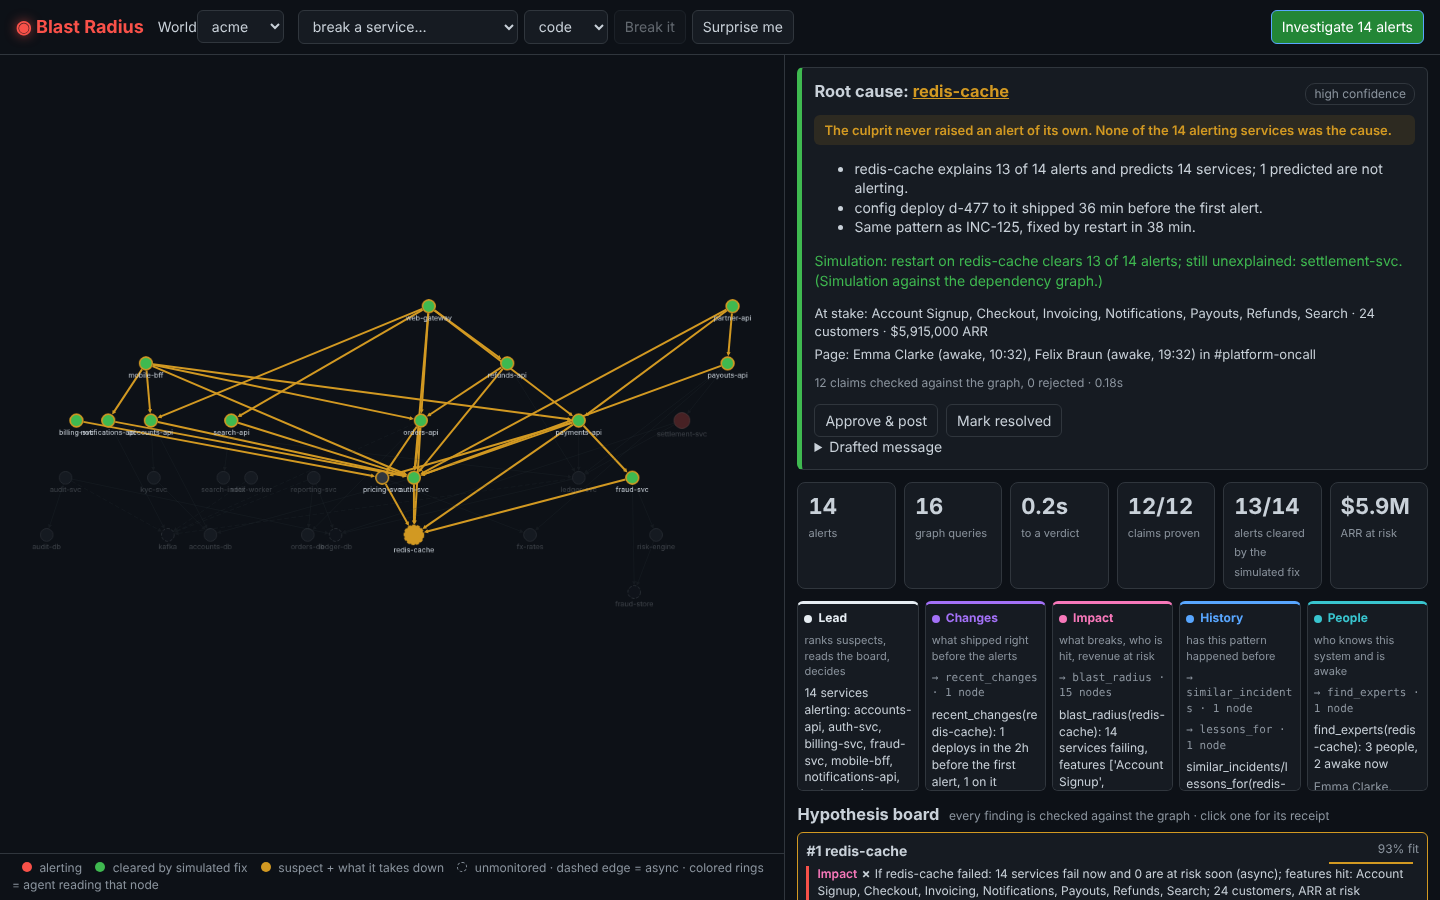
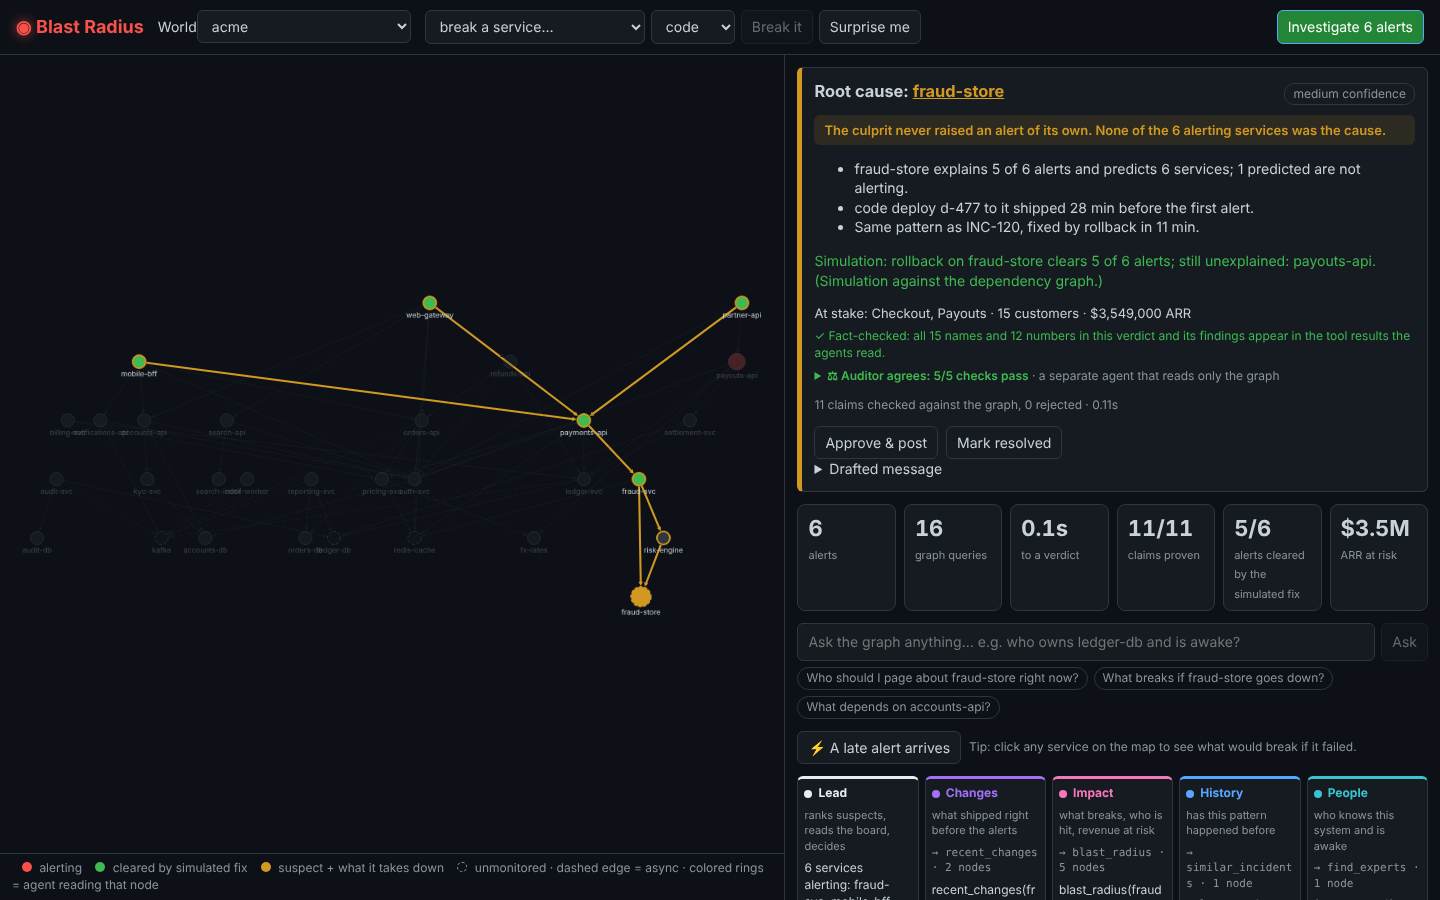
Docs: Auditor; refreshed screenshot
Claude-Session: https://claude.ai/code/session_01STrKdnem9AQHng1VtdPq5L

diff --git a/README.md b/README.md
@@ -22,6 +22,7 @@ Built for Graph Hacks (WeMakeDevs x FalkorDB). Tracks 01 (Agents That Act on Con
 | **Ask the graph** | Type any question ("who should I page about ledger-db right now?"). A small model answers using only read-only graph tools; citations to nodes it never read are dropped, and the receipt shows every query. |
 | **Bring your own system** | Paste a `docker-compose.yml`: services become nodes, `depends_on` becomes edges, no healthcheck means unmonitored. Break your own architecture and watch the agents work. |
 | **Fact-checked words** | Every service name, deploy id, incident id and number in a verdict, a finding or an Ask answer is checked against the tool results that agent actually read. The UI shows "✓ Fact-checked" or lists what could not be found. |
+| **An Auditor that only reads the graph** | A sixth agent shares nothing with the team but the graph: it reads the stored Decision, its BLAMES edges, the board's findings, the stored simulation and fact-check, runs deterministic checks (independent support, deploy before first alert, fix clears most alerts, abstentions stay low-confidence), and writes an Audit node. |
 | **Postmortem from memory** | After resolving, one click renders a postmortem (timeline, cause, evidence, hypotheses ruled out, lesson saved) purely from the investigation's nodes. No model writes it, so it cannot invent anything. |
 | **Real topology too** | Besides two synthetic companies, the `boutique` world is the service graph of Google's open-source Online Boutique microservices demo (monitoring flags, teams and history are our synthetic additions). |
 | **Scales** | Exact branch-and-bound ranking: about 0.4 s for a 28-alert storm in a 2,000-service graph and under 2 s at 10,000 services, same top 5 as scoring everyone ([docs/SCALE.md](docs/SCALE.md)). |

diff --git a/docs/ARCHITECTURE.md b/docs/ARCHITECTURE.md
@@ -180,6 +180,10 @@ Everything here is tested with a scripted fake model. It has NOT been run agains
 
 **Scale.** `rank_root_causes` now visits candidates by coverage and stops once a candidate's best possible score (coverage with perfect precision) is below the current top-k, which gives exactly the same top-k (tested on 36 random storms over three worlds) with far fewer expensive blast-radius walks. Results in docs/SCALE.md.
 
+## 21. The Auditor (`backend/agents/auditor.py`)
+
+After the Lead decides, the simulation result and the fact-check are stored on the Decision node. The Auditor then reads only the graph (never the team's memory or transcripts) and checks: the Decision links to the blamed service; the accepted hypothesis has support from at least one specialist (two for high confidence, not counting People); a blamed deploy went to that service before the first alert; the simulated fix clears at least 70% of alerts; the fact-check found nothing; an abstention is low confidence and considered alternatives. It writes `(:Agent {name:'Auditor'})-[:WROTE]->(:Audit {verdict, checks})-[:AUDITS]->(:Decision)`. It cannot change the verdict; disagreement is shown to the human.
+
 ## Not built yet
 
 Ripple in the web screen, real-model tuning on dev scenarios, re-recording the replay from a real run, the final benchmark on the held-out test split, BENCHMARK.md, the blog and demo script.
